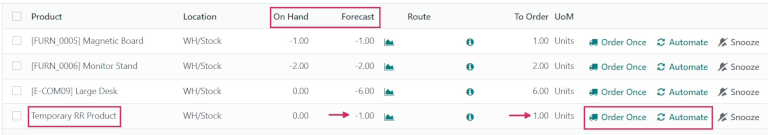
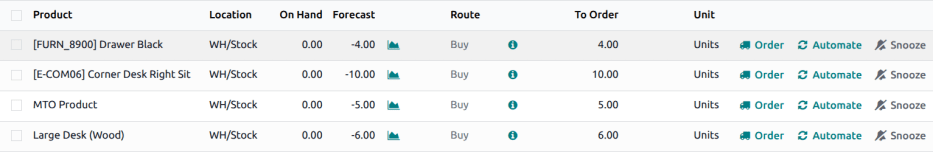
[IMP] Purchase: Temporary reordering rules
closes odoo/documentation#19957

X-original-commit: 775cce91eea31d229b7ea1639ba0917c7aae33a4

diff --git a/content/applications/inventory_and_mrp/purchase/products/temporary_reordering.rst b/content/applications/inventory_and_mrp/purchase/products/temporary_reordering.rst
@@ -2,26 +2,18 @@
 Temporary reordering rules
 ==========================
 
+.. |PO| replace:: :abbr:`PO (Purchase Order)`
+.. |SO| replace:: :abbr:`SO (Sales Order)`
+
 Some businesses require certain products to always have a minimum quantity of stock on-hand at any
 given time. To avoid stock falling below a certain threshold, companies can create *reordering
 rules* in Odoo to automate purchase orders for specific products.
 
-Reordering rules keep the forecasted stock levels above a certain threshold, without exceeding a
-specified upper limit, or maximum amount. When a product with a reordering rule falls below a
-specified quantity, Odoo generates an order using the specified *route* (e.g. *Buy* or
-*Manufacture*) to replenish the stock.
-
-In certain cases, businesses might opt for *temporary reordering rules* when they do not want
-specific products to be replenished automatically.
-
-In Odoo, a "temporary" reordering rule is created in the replenishment dashboard when a product:
-
-#. is configured with a *Buy* route
-#. has no reordering rule configured
-#. has `0` quantity in stock
-#. is included in a sales order (SO).
-
-This rule is deleted upon confirmation of the purchase order (PO) generated for the product.
+In certain cases, businesses might opt for *temporary* reordering rules when they do not want
+specific products to be replenished automatically. In Odoo, a *temporary* reordering rule is created
+in the replenishment dashboard when a product is configured with a *Buy* route, has no reordering
+rule configured, has `0` quantity in stock, and is included in a sales order. This rule is deleted
+upon confirmation of the purchase order (PO) generated for the product.
 
 .. seealso::
    - :doc:`../../inventory/warehouses_storage/replenishment/reordering_rules`
@@ -37,33 +29,31 @@ going to :menuselection:`Inventory app --> Products --> Products`, and click :gu
    The same configurations can also be made on an existing product, by going to
    :menuselection:`Inventory app --> Products --> Products`, and selecting an existing product.
 
-On the product form, enter the product name, and ensure the :guilabel:`Can be Sold` and
-:guilabel:`Can be Purchased` options are enabled, located beneath the :guilabel:`Product Name`
-field.
+On the product form, enter the product name, and ensure the :guilabel:`Sales` and
+:guilabel:`Purchase` options are enabled, located beneath the :guilabel:`Product Name` field.
 
-Then, set the :guilabel:`Product Type` to `Storable Product`, under the :guilabel:`General
-Information` tab.
+On the *General Information* tab, leave :guilabel:`Product Type` set to :guilabel:`Goods`, and
+ensure :guilabel:`Track Inventory` is checked, with :guilabel:`By Quantity` selected.
 
-Next, click the :guilabel:`Purchase` tab, and under :guilabel:`Vendor`, click :guilabel:`Add a line`
-to select a vendor from the drop-down menu. Then, set a purchase price under :guilabel:`Price`.
+Next, click the *Purchase* tab, and under :guilabel:`Vendor`, click :guilabel:`Add a line` and
+select a vendor from the drop-down menu. Then, set a purchase price under :guilabel:`Unit Price`.
 
 .. important::
-   A vendor **must** be set for temporary reordering rules to work. While a :abbr:`PO (purchase
-   order)` can still be created automatically, attempting to replenish the product from the
-   :guilabel:`Replenishment` dashboard in the *Inventory* app triggers a warning to add a vendor on
-   the product form.
+   A vendor **must** be set for temporary reordering rules to work. Attempting to replenish the
+   product from the *Replenishment* dashboard in the **Inventory** app without one triggers a
+   warning to add a vendor on the product form.
 
-   .. image:: temporary_reordering/temporary-reordering-warning-popup.png
-      :align: center
-      :alt: Warning pop-up upon clicking to replenish product with no set vendor.
+Before creating an |SO| for the product, ensure the :guilabel:`Quantity On Hand` field, on the
+*General Information* tab, reads `0.00 Units`. Then, ensure that the :icon:`fa-refresh`
+:guilabel:`Reordering Rules` smart button reads `0`, indicating there are no rules applied to this
+product.
 
-Before creating a :abbr:`SO (sales order)` for the product, ensure the :guilabel:`On Hand` smart
-button on the product form reads `0.00 Units`. Then, ensure that the :guilabel:`Reordering Rules`
-smart button reads `0`, indicating there are no rules applied to this product.
+.. tip::
+   If the button bar is full, the *Reordering Rules* smart button is located under the *More*
+   dropdown.
 
-.. image:: temporary_reordering/temporary-reordering-smart-buttons.png
-   :align: center
-   :alt: Product form smart button row displaying reordering rules and on hand buttons.
+   .. image:: temporary_reordering/more-button.png
+      :alt: The smart buttons bar with the more option selected.
 
 Trigger temporary reordering rule
 =================================
@@ -72,12 +62,8 @@ To trigger a temporary reordering rule, create a new sales order for a product b
 :menuselection:`Sales app --> New`.
 
 Then, add a customer in the :guilabel:`Customer` field, and click :guilabel:`Add a product` under
-the :guilabel:`Product` column in the :guilabel:`Order Lines` tab. Next, select the desired product
-from the drop-down menu. Lastly, :guilabel:`Confirm` the :abbr:`SO (sales order)`.
-
-.. image:: temporary_reordering/temporary-reordering-sales-order.png
-   :align: center
-   :alt: Sales order for product with no set reordering rules.
+the :guilabel:`Product` column in the *Order Lines* tab. Next, select the desired product from the
+drop-down menu. Lastly, :guilabel:`Confirm` the |SO|.
 
 .. _purchase/check-replenishment:
 
@@ -86,47 +72,45 @@ Check replenishment report
 
 To see the temporary reordering rule created for the out-of-stock product included in the sales
 order, navigate to :menuselection:`Inventory app --> Operations --> Replenishment`. Doing so opens
-the :guilabel:`Replenishment` dashboard.
+the *Replenishment* dashboard.
 
 On this dashboard, locate the product for which the temporary reordering rule was created. On its
 product line, its :guilabel:`On Hand` quantity, negative :guilabel:`Forecast` quantity, *Buy*
 :guilabel:`Route`, and :guilabel:`To Order` quantity to replenish can be seen.
 
-Additionally, two replenishment options are located to the far-right of the row: :guilabel:`Order
-Once` and :guilabel:`Automate`.
+Additionally, three replenishment options are located to the far-right of the row:
+:icon:`fa-truck` :guilabel:`Order`, :icon:`fa-refresh` :guilabel:`Automate`, and
+:icon:`fa-bell-slash` :guilabel:`Snooze`.
 
 .. image:: temporary_reordering/temporary-reordering-replenishment-dashboard.png
-   :align: center
    :alt: Replenishment report displaying temporary reordering rule and options.
 
-To use the one-time, temporary reordering rule, click :guilabel:`Order Once`. This action triggers a
-confirmation pop-up window in the top-right corner, reading :guilabel:`The following replenishment
-order has been generated`, along with a new purchase order number.
+To use the one-time, temporary reordering rule, click :icon:`fa-truck` :guilabel:`Order`. This
+action triggers a small temporary confirmation pop-up window, reading :guilabel:`The following
+replenishment order has been generated`, along with a new purchase order number.
 
 .. tip::
-   Once the purchase order has been generated after clicking :guilabel:`Order Once`, refresh the
-   page. The temporary reordering rule for the product no longer appears in the
-   :guilabel:`Replenishment` dashboard.
+   Once the purchase order has been generated after clicking :guilabel:`Once`, refresh the page. The
+   temporary reordering rule for the product no longer appears in the :guilabel:`Replenishment`
+   dashboard.
 
 Complete purchase order
 =======================
 
-To view the purchase order created from the :guilabel:`Replenishment` dashboard, navigate to the
-:menuselection:`Purchase app`, and select the generated :abbr:`PO (purchase order)` from the
-:guilabel:`Requests for Quotation` overview.
+To view the purchase order created from the *Replenishment* dashboard, navigate to the
+:menuselection:`Purchase app`, and select the generated |PO| from the *Requests for Quotation*
+dashboard.
 
-From here, click :guilabel:`Confirm Order`, then click :guilabel:`Receive Products`. Finally, click
-:guilabel:`Validate` to complete the purchase order.
+From here, click :guilabel:`Confirm Order`, then click :guilabel:`Receive`. Finally, click
+:guilabel:`Validate` to complete the |PO|.
 
-.. image:: temporary_reordering/temporary-reordering-purchase-order.png
-   :align: center
-   :alt: Purchase order for product ordered with temporary reordering rule.
-
-Now, the original sales order can be delivered and invoiced.
+The temporary reordering rule is automatically deleted upon confirmation of the |PO|, and the
+*Reordering Rules* count returns to `0`. Now, the original sales order can be delivered and
+invoiced.
 
 .. note::
-   Once the :abbr:`SO (sales order)` is delivered and invoiced, ensure there are no reordering rules
-   on the product form.
+   Once the |SO| is delivered and invoiced, ensure there are no reordering rules on the product
+   form.
 
    Go to :menuselection:`Inventory app --> Products --> Products`, select the product, and confirm
-   that the :guilabel:`Reordering Rules` smart button displays `0`.
+   that the :icon:`fa-refresh` :guilabel:`Reordering Rules` smart button displays `0`.
